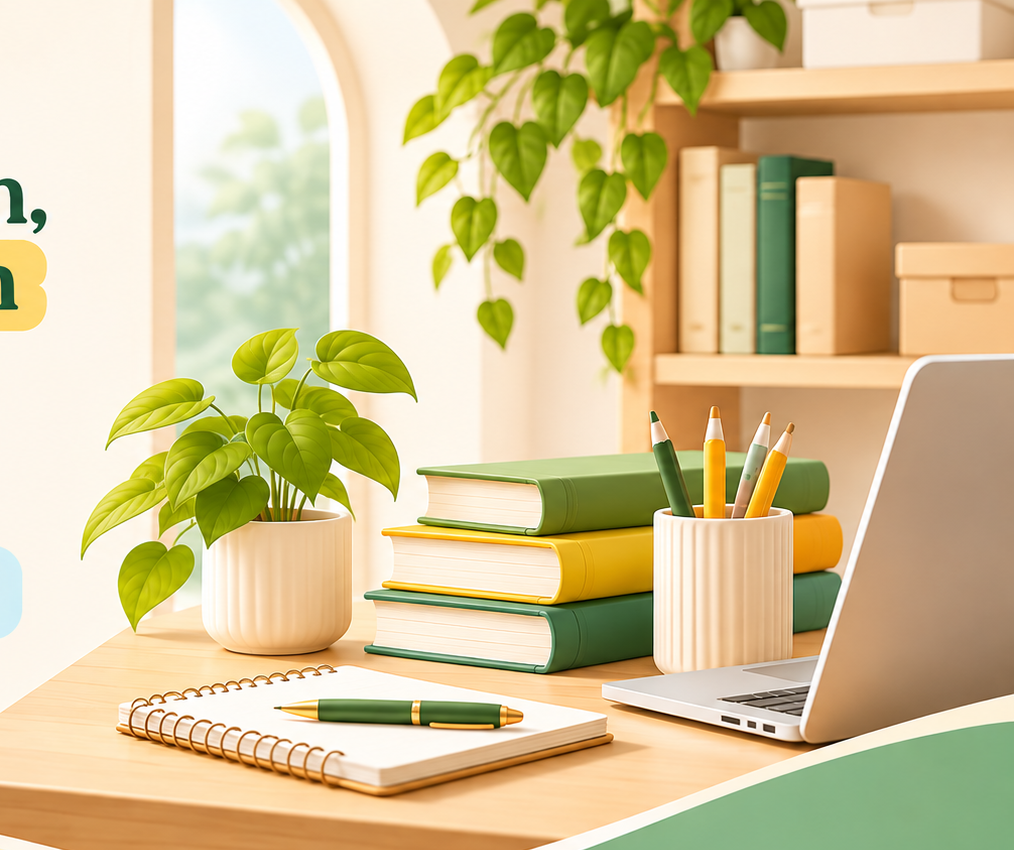
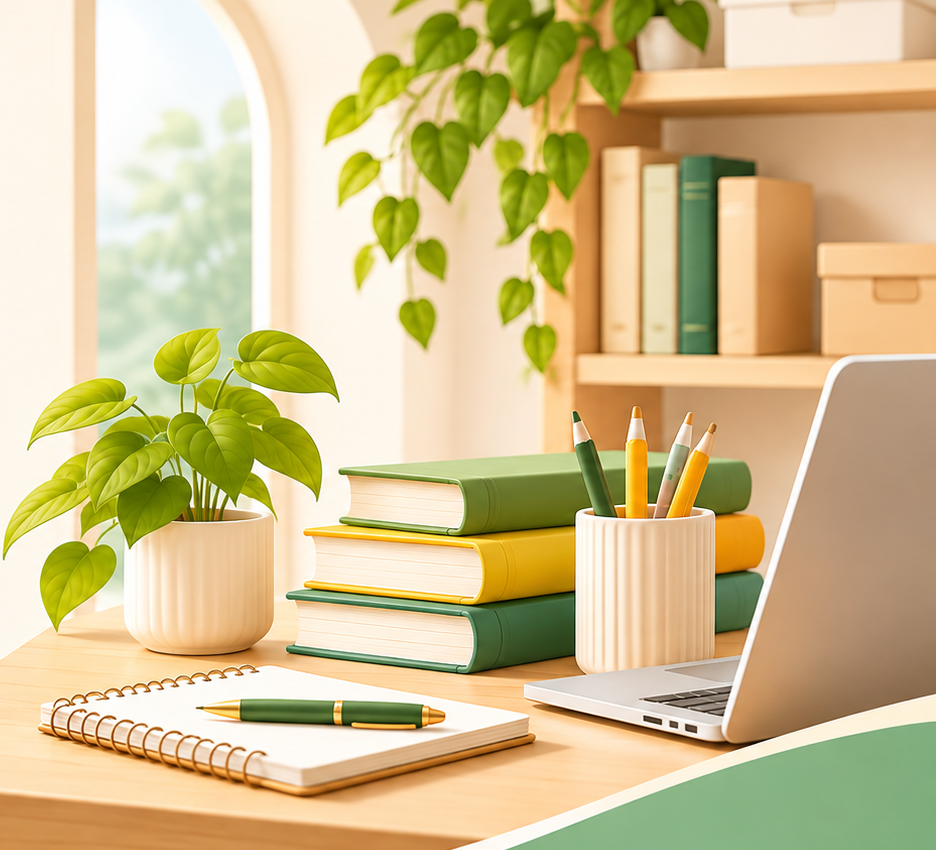
Add files via upload

diff --git a/index.html b/index.html
@@ -1,44 +1,273 @@
 <!doctype html>
 <html lang="id">
 <head>
-<meta charset="utf-8"><meta name="viewport" content="width=device-width,initial-scale=1">
-<meta name="theme-color" content="#f8f6ef"><meta name="description" content="Worksheet, rangkuman materi, aktivitas digital, dan sumber belajar untuk anak, orang tua, dan guru.">
-<title>TemaniBelajar.id — Belajar, Bermain, dan Bertumbuh Bersama</title>
+<meta charset="utf-8">
+<meta name="viewport" content="width=device-width, initial-scale=1">
+<meta name="theme-color" content="#f8f4eb">
+<meta name="description" content="TemaniBelajar.id adalah ruang belajar digital yang menghadirkan sumber belajar, aktivitas, dan inspirasi untuk anak, orang tua, dan guru.">
+<title>TemaniBelajar.id — Belajar dengan Hati, Bertumbuh dengan Ilmu</title>
 <style>
-:root{--forest:#174f40;--green:#287c66;--sage:#dce8dc;--pale:#edf1e8;--cream:#f8f6ef;--paper:#fffefa;--ink:#25352f;--muted:#697970;--orange:#d97942;--yellow:#f2d77a;--line:#e7e5dc;--shadow:0 18px 50px #20392b0d;--serif:Georgia,'Times New Roman',serif;--sans:Inter,ui-sans-serif,system-ui,-apple-system,'Segoe UI',sans-serif}
-*{box-sizing:border-box}html{scroll-behavior:smooth}body{margin:0;background:var(--cream);color:var(--ink);font-family:var(--sans);-webkit-font-smoothing:antialiased}a{color:inherit;text-decoration:none}button,input,select{font:inherit}.container{width:min(1180px,calc(100% - 48px));margin-inline:auto}.topbar{position:sticky;top:0;z-index:20;background:#f8f6efeF;border-bottom:1px solid #e7e5dcaa;backdrop-filter:blur(14px)}.nav{height:78px;display:flex;align-items:center;justify-content:space-between;gap:24px}.brand{display:flex;align-items:center;gap:12px;font-weight:850;letter-spacing:-.04em;color:var(--forest);font-size:20px}.brand img{width:48px;height:48px;object-fit:contain;border-radius:50%}.navlinks{display:flex;gap:34px;color:#42534b;font-size:13px;font-weight:700}.navlinks a:hover,.textlink:hover{color:var(--orange)}.pill{display:inline-flex;align-items:center;justify-content:center;border-radius:99px;padding:13px 20px;background:var(--forest);color:white;font-weight:750;font-size:13px;border:1px solid var(--forest);transition:.2s}.pill:hover{background:var(--green);transform:translateY(-1px)}.pill.secondary{background:transparent;color:var(--forest)}.menu-btn{display:none;border:1px solid var(--line);background:white;border-radius:50%;width:42px;height:42px;font-size:20px;color:var(--forest)}
-.hero{padding:64px 0 76px;display:grid;grid-template-columns:1.02fr .98fr;gap:56px;align-items:center}.eyebrow{font-size:10px;text-transform:uppercase;letter-spacing:.19em;font-weight:850;color:var(--orange)}h1,h2,h3,p{margin-top:0}.hero h1{font-family:var(--serif);font-weight:600;letter-spacing:-.045em;font-size:clamp(46px,5.4vw,72px);line-height:1.02;margin:20px 0 22px;max-width:620px}.hero h1 em{font-style:italic;color:var(--green)}.hero-copy{max-width:520px;font-size:16px;line-height:1.85;color:var(--muted);margin-bottom:26px}.hero-actions{display:flex;gap:12px;flex-wrap:wrap}.hero-note{font-size:11px;color:#87928b;margin-top:22px;letter-spacing:.02em}.hero-visual{position:relative}.hero-visual:before{content:"";position:absolute;inset:8% -5% -5% 8%;border-radius:46% 46% 22px 22px;background:#e7eddf}.hero-visual img{position:relative;display:block;width:100%;aspect-ratio:1.2/1;object-fit:cover;object-position:center;border-radius:34px;box-shadow:var(--shadow)}
-.section{padding:58px 0}.section-head{display:flex;align-items:end;justify-content:space-between;gap:28px;margin-bottom:26px}.section-head h2{font-family:var(--serif);font-weight:600;letter-spacing:-.035em;font-size:clamp(30px,3.5vw,43px);margin:10px 0 8px}.section-head p{max-width:570px;color:var(--muted);line-height:1.75;font-size:14px;margin:0}.textlink{font-size:13px;font-weight:800;color:var(--forest);white-space:nowrap}.category-grid{display:grid;grid-template-columns:repeat(4,1fr);gap:14px}.category-card{background:var(--paper);border:1px solid var(--line);border-radius:18px;padding:22px;min-height:174px;transition:.2s;display:flex;flex-direction:column}.category-card:hover,.aud-card:hover{transform:translateY(-3px);box-shadow:var(--shadow);border-color:#cdd9cd}.cat-symbol{height:44px;width:44px;border-radius:14px;display:grid;place-items:center;font-family:var(--serif);font-size:22px;color:var(--forest);background:var(--pale);margin-bottom:18px}.category-card:nth-child(2) .cat-symbol{background:#f8eadb;color:#a75d32}.category-card:nth-child(3) .cat-symbol{background:#f5efd8;color:#856d2a}.category-card:nth-child(4) .cat-symbol{background:#e7edf0;color:#526d78}.category-card h3{font-size:15px;margin:0 0 7px}.category-card p{font-size:12px;color:var(--muted);line-height:1.6;margin:0}
-.audience-band{background:#eaf0e7;border-block:1px solid #dfe7dc}.audience-grid{display:grid;grid-template-columns:repeat(3,1fr);gap:14px}.aud-card{border:1px solid #dbe4d8;background:#f8f8f1;border-radius:18px;padding:24px;min-height:150px;transition:.2s}.aud-card .number{font-family:var(--serif);font-size:30px;color:#a4b7a2}.aud-card h3{font-family:var(--serif);font-size:22px;margin:10px 0 6px}.aud-card p{font-size:12px;color:var(--muted);margin:0;line-height:1.6}
-.featured-grid{display:grid;grid-template-columns:repeat(4,1fr);gap:16px}.product-card{background:var(--paper);border:1px solid var(--line);border-radius:18px;padding:11px;display:flex;flex-direction:column;min-width:0;transition:.2s}.product-card:hover{transform:translateY(-3px);box-shadow:var(--shadow)}.product-art{height:190px;border-radius:12px;padding:16px;display:flex;flex-direction:column;justify-content:space-between;overflow:hidden;position:relative;background:linear-gradient(145deg,#e7eee3,#cbdccc);color:var(--forest)}.product-art:after{content:"";position:absolute;width:150px;height:150px;border:1px solid currentColor;border-radius:50%;right:-46px;bottom:-62px;opacity:.17;box-shadow:0 0 0 16px #ffffff16,0 0 0 34px #ffffff12}.product-art[data-tone="1"]{background:linear-gradient(145deg,#f8e9d7,#edc9a7);color:#794a2d}.product-art[data-tone="2"]{background:linear-gradient(145deg,#e8edf1,#cbd8dd);color:#365b68}.product-art[data-tone="3"]{background:linear-gradient(145deg,#f4edcf,#e9d98c);color:#766128}.product-art[data-tone="4"]{background:linear-gradient(145deg,#f0e5e6,#dfc7d0);color:#744c5d}.art-kicker{font-size:8px;letter-spacing:.16em;font-weight:900;position:relative;z-index:1}.art-mark{font-family:var(--serif);font-size:54px;line-height:1;align-self:flex-end;position:relative;z-index:1}.art-title{font-family:var(--serif);font-size:19px;line-height:1.08;max-width:90%;position:relative;z-index:1}.product-info{padding:13px 5px 5px;display:flex;flex-direction:column;flex:1}.product-category{font-size:9px;letter-spacing:.12em;text-transform:uppercase;color:var(--orange);font-weight:850;margin-bottom:8px}.product-info h3{font-size:14px;line-height:1.45;margin:0 0 10px;min-height:40px}.price-line{margin-top:auto;display:flex;align-items:baseline;gap:8px;font-weight:850;font-size:14px}.price-line del{font-size:11px;color:#9aa39d;font-weight:500}.product-link{display:flex;justify-content:space-between;border-top:1px solid var(--line);margin-top:13px;padding:12px 5px 2px;font-size:11px;font-weight:850;color:var(--forest)}.all-products{margin-top:25px;text-align:center}.all-products .pill{min-width:190px}
-.shop-tools{display:flex;gap:10px;flex-wrap:wrap;margin:20px 0 22px}.shop-tools input,.shop-tools select{border:1px solid var(--line);background:var(--paper);border-radius:99px;padding:12px 15px;color:var(--ink);font-size:12px}.shop-tools input{min-width:230px;flex:1}.shop-tools select{min-width:160px}.shop-count{align-self:center;margin-left:auto;font-size:11px;color:var(--muted)}.product-grid{display:grid;grid-template-columns:repeat(4,1fr);gap:15px}.product-grid .product-art{height:155px}.why{background:#f0eee4}.why-grid{display:grid;grid-template-columns:1fr 1.4fr;gap:50px;align-items:center}.why h2{font-family:var(--serif);font-size:clamp(32px,4vw,48px);font-weight:600;line-height:1.1;letter-spacing:-.035em;margin:12px 0}.why-intro{color:var(--muted);font-size:14px;line-height:1.8}.benefits{display:grid;grid-template-columns:repeat(2,1fr);gap:12px}.benefit{background:#fbfaf5;border:1px solid #e4e3d9;border-radius:15px;padding:18px}.benefit b{font-family:var(--serif);font-size:17px}.benefit p{font-size:11px;color:var(--muted);line-height:1.6;margin:7px 0 0}.closing{padding:62px 0}.closing-panel{background:var(--forest);color:white;border-radius:24px;padding:42px;display:flex;justify-content:space-between;align-items:center;gap:25px;overflow:hidden;position:relative}.closing-panel:after{content:"";position:absolute;width:300px;height:300px;border:1px solid #ffffff26;border-radius:50%;right:12%;top:-190px;box-shadow:0 0 0 30px #ffffff08,0 0 0 60px #ffffff08}.closing-panel h2{font-family:var(--serif);font-size:clamp(28px,3.6vw,42px);font-weight:500;margin:8px 0}.closing-panel p{font-size:13px;color:#d6e2d9;margin:0;line-height:1.7}.closing-panel .pill{background:#f3d981;color:#274536;border-color:#f3d981;position:relative;z-index:1;white-space:nowrap}footer{border-top:1px solid var(--line);padding:30px 0 38px;color:var(--muted);font-size:11px}.footer-inner{display:flex;justify-content:space-between;gap:20px;align-items:center}.footer-brand{font-weight:850;color:var(--forest);font-size:15px}.footer-links{display:flex;gap:18px;flex-wrap:wrap}
-.hidden{display:none!important}.empty{color:var(--muted);font-size:13px;padding:24px 0}@media(max-width:900px){.hero{gap:30px}.category-grid,.featured-grid,.product-grid{grid-template-columns:repeat(2,1fr)}.why-grid{grid-template-columns:1fr;gap:24px}.product-art{height:175px}}@media(max-width:620px){.container{width:min(100% - 32px,500px)}.nav{height:68px}.brand{font-size:17px}.brand img{width:42px;height:42px}.navlinks,.nav-cta{display:none}.menu-btn{display:block}.hero{grid-template-columns:1fr;padding:30px 0 46px;gap:26px}.hero h1{font-size:48px;margin:14px 0}.hero-copy{font-size:14px}.hero-visual img{aspect-ratio:1.2/1;border-radius:23px}.section{padding:42px 0}.section-head{display:block}.section-head .textlink{display:inline-block;margin-top:15px}.category-grid{gap:9px}.category-card{padding:16px;min-height:160px}.audience-grid{grid-template-columns:1fr}.aud-card{min-height:120px;padding:18px}.featured-grid,.product-grid{gap:9px}.product-card{padding:8px;border-radius:14px}.product-art{height:145px;padding:12px}.art-title{font-size:16px}.art-mark{font-size:42px}.product-info{padding:11px 3px 3px}.product-info h3{font-size:12px;min-height:52px}.price-line{font-size:12px}.product-link{font-size:10px}.shop-tools{display:grid;grid-template-columns:1fr 1fr}.shop-tools input{grid-column:1/-1;min-width:0}.shop-tools select{min-width:0;width:100%}.shop-count{grid-column:1/-1;margin:0}.benefits{gap:8px}.benefit{padding:14px}.closing-panel{padding:28px 22px;display:block}.closing-panel .pill{margin-top:20px}.footer-inner{display:block}.footer-links{margin-top:14px}}
+:root{
+ --forest:#174f40;--green:#287c66;--deep:#173c32;--sage:#e7eee3;--sage2:#d6e3d2;
+ --cream:#faf7f0;--paper:#fffdf8;--peach:#f5e1d0;--butter:#f4e6ad;
+ --ink:#24352f;--muted:#687a70;--line:#e8e1d5;--orange:#d8753d;
+ --serif:Georgia,"Times New Roman",serif;
+ --sans:Inter,ui-sans-serif,system-ui,-apple-system,"Segoe UI",sans-serif;
+ --shadow:0 24px 70px rgba(36,53,47,.10)
+}
+*{box-sizing:border-box}
+html{scroll-behavior:smooth}
+body{margin:0;background:var(--cream);color:var(--ink);font-family:var(--sans);-webkit-font-smoothing:antialiased;overflow-x:clip}
+a{color:inherit;text-decoration:none}
+img{max-width:100%;display:block}
+.container{width:min(1180px,calc(100% - 52px));margin:auto}
+.topbar{position:sticky;top:0;z-index:30;background:rgba(250,247,240,.92);backdrop-filter:blur(16px);border-bottom:1px solid rgba(232,225,213,.8)}
+.nav{height:78px;display:flex;align-items:center;justify-content:space-between;gap:24px}
+.brand{display:flex;align-items:center;gap:12px;color:var(--forest);font-weight:850;font-size:20px;letter-spacing:-.045em}
+.brand img{width:48px;height:48px;object-fit:contain;border-radius:50%}
+.navlinks{display:flex;align-items:center;gap:34px;font-size:13px;font-weight:750;color:#43564d}
+.navlinks a:hover,.footer-links a:hover{color:var(--orange)}
+.nav-cta,.btn{display:inline-flex;align-items:center;justify-content:center;gap:9px;border-radius:99px;padding:14px 21px;background:var(--forest);color:white;font-size:13px;font-weight:800;transition:.2s}
+.nav-cta:hover,.btn:hover{background:var(--green);transform:translateY(-2px)}
+.btn.light{background:var(--paper);color:var(--forest);border:1px solid var(--line)}
+.btn.light:hover{border-color:var(--sage2);background:white}
+.menu-btn{display:none;width:42px;height:42px;border:1px solid var(--line);background:var(--paper);border-radius:50%;color:var(--forest);font-size:20px}
+.mobile-nav{display:none;padding:0 0 18px}
+.mobile-nav a{display:block;padding:12px 4px;border-top:1px solid var(--line);font-size:14px;font-weight:700}
+.eyebrow{font-size:10px;letter-spacing:.22em;text-transform:uppercase;color:var(--orange);font-weight:900}
+h1,h2,h3,p{margin-top:0}
+.hero{padding:74px 0 88px;display:grid;grid-template-columns:minmax(0,1.02fr) minmax(0,.98fr);gap:58px;align-items:center;min-height:610px}.hero-copy,.hero-art{min-width:0}
+.hero-copy{position:relative;z-index:1}
+.hero-kicker{display:inline-flex;align-items:center;gap:10px;color:var(--forest);font-size:11px;font-weight:800;letter-spacing:.12em;text-transform:uppercase}
+.hero-kicker:before{content:"";width:28px;height:1px;background:var(--orange)}
+.hero h1{font:600 clamp(48px,6vw,76px)/.99 var(--serif);letter-spacing:-.052em;max-width:650px;margin:22px 0}
+.hero h1 em{color:var(--green);font-weight:500}
+.hero-desc{max-width:510px;color:var(--muted);font-size:16px;line-height:1.9;margin-bottom:28px}
+.hero-actions{display:flex;flex-wrap:wrap;gap:12px}
+.hero-signature{margin-top:30px;color:#87948b;font:italic 13px var(--serif)}
+.hero-art{position:relative;padding:0 0 24px 22px}
+.hero-art:before{content:"";position:absolute;inset:9% -4% -1% 12%;background:var(--sage);border-radius:48% 48% 30px 30px;transform:rotate(2deg)}
+.hero-art:after{content:"";position:absolute;width:110px;height:110px;border:1px solid #d6a77c;border-radius:50%;right:-22px;top:-28px;opacity:.65}
+.hero-art img{position:relative;z-index:1;display:block;width:100%;max-width:100%;height:440px;object-fit:cover;object-position:center;border-radius:44% 44% 22px 22px;box-shadow:var(--shadow)}
+.hero-caption{position:absolute;z-index:2;bottom:0;left:0;background:var(--paper);border:1px solid var(--line);border-radius:16px;padding:13px 17px;box-shadow:var(--shadow);font:italic 15px var(--serif);color:var(--forest)}
+.hero-caption small{display:block;font:800 9px var(--sans);letter-spacing:.16em;text-transform:uppercase;color:var(--orange);margin-bottom:5px}
+.section{padding:86px 0}
+.section-head{max-width:720px;margin-bottom:38px}
+.section-head h2{font:600 clamp(34px,4.2vw,52px)/1.06 var(--serif);letter-spacing:-.04em;margin:13px 0}
+.section-head p{font-size:15px;line-height:1.85;color:var(--muted);margin:0;max-width:650px}
+.story{background:#f1e9dc;position:relative;overflow:hidden}
+.story:after{content:"";position:absolute;width:440px;height:440px;border:1px solid #d6c7b2;border-radius:50%;right:-180px;top:-190px;box-shadow:0 0 0 28px #ffffff1c,0 0 0 58px #ffffff15}
+.story-grid{display:grid;grid-template-columns:.85fr 1.15fr;gap:75px;align-items:center;position:relative;z-index:1}
+.story-mark{background:var(--sage);border-radius:46% 46% 18px 18px;min-height:360px;display:grid;place-items:center;position:relative;overflow:hidden}
+.story-mark img{width:170px;height:170px;object-fit:contain;filter:drop-shadow(0 12px 18px #173c3218)}
+.story-mark:before,.story-mark:after{content:"";position:absolute;border:1px solid #a9bea8;border-radius:50%;width:280px;height:280px}
+.story-mark:after{width:360px;height:360px}
+.story-copy h2{font:600 clamp(36px,4.2vw,52px)/1.05 var(--serif);letter-spacing:-.04em;margin:14px 0 20px}
+.story-copy p{color:#63746a;font-size:15px;line-height:1.95;margin:0 0 14px}
+.text-link{display:inline-flex;align-items:center;gap:8px;color:var(--forest);font-size:13px;font-weight:850;margin-top:12px}
+.text-link:hover{color:var(--orange)}
+.philosophy{background:var(--paper)}
+.philosophy-grid{display:grid;grid-template-columns:repeat(3,1fr);gap:18px}
+.philo{padding:28px 27px 30px;border:1px solid var(--line);border-radius:20px;background:var(--cream);min-height:218px}
+.philo-num{font:italic 28px var(--serif);color:#9caf98}
+.philo h3{font:600 23px var(--serif);margin:20px 0 10px}
+.philo p{font-size:13px;line-height:1.8;color:var(--muted);margin:0}
+.ecosystem{background:var(--sage);border-block:1px solid #dbe5d7}
+.ecosystem-grid{display:grid;grid-template-columns:repeat(4,1fr);gap:14px}
+.eco{background:rgba(255,253,248,.76);border:1px solid #d8e2d5;border-radius:18px;padding:23px;min-height:195px;transition:.2s}
+.eco:hover{transform:translateY(-4px);box-shadow:var(--shadow)}
+.eco-symbol{width:48px;height:48px;display:grid;place-items:center;border-radius:50%;background:var(--peach);color:var(--forest);font:24px var(--serif);margin-bottom:22px}
+.eco:nth-child(2) .eco-symbol{background:#f4e8b8}
+.eco:nth-child(3) .eco-symbol{background:#dce8df}
+.eco:nth-child(4) .eco-symbol{background:#eadde2}
+.eco h3{font:600 20px var(--serif);margin:0 0 8px}
+.eco p{font-size:12px;line-height:1.75;color:var(--muted);margin:0}
+.partners{background:var(--cream)}
+.partner-grid{display:grid;grid-template-columns:repeat(3,1fr);gap:16px}
+.partner{padding:27px;border:1px solid var(--line);border-radius:20px;background:var(--paper);min-height:220px;position:relative;overflow:hidden}
+.partner:after{content:"";position:absolute;width:150px;height:150px;border:1px solid #d9e3d6;border-radius:50%;right:-60px;bottom:-75px;box-shadow:0 0 0 16px #e9efe522,0 0 0 34px #e9efe522}
+.partner .num{font:italic 30px var(--serif);color:#a5b7a0}
+.partner h3{font:600 25px var(--serif);margin:17px 0 9px}
+.partner p{font-size:13px;line-height:1.8;color:var(--muted);max-width:270px;margin:0}
+.work{background:#f2eadd}
+.work-layout{display:grid;grid-template-columns:.8fr 1.2fr;gap:50px;align-items:center}
+.work-intro h2{font:600 clamp(36px,4vw,50px)/1.05 var(--serif);letter-spacing:-.04em;margin:13px 0}
+.work-intro p{font-size:14px;line-height:1.9;color:var(--muted)}
+.work-cards{display:grid;grid-template-columns:repeat(2,1fr);gap:14px}
+.work-card{background:var(--paper);border:1px solid #e7ddcf;border-radius:18px;padding:12px;min-width:0}
+.work-cover{min-height:205px;border-radius:12px;padding:20px;display:flex;flex-direction:column;justify-content:space-between;background:linear-gradient(145deg,#e5eee2,#cbdccc);color:#174f40}
+.work-card:nth-child(2) .work-cover{background:linear-gradient(145deg,#f7e6d5,#e9c7a8);color:#754a30}
+.cover-top{font-size:8px;letter-spacing:.17em;font-weight:900}
+.cover-mark{align-self:flex-end;font:58px/1 var(--serif)}
+.cover-title{font:22px/1.08 var(--serif);max-width:90%}
+.work-meta{padding:14px 5px 5px}
+.work-meta small{font-size:9px;letter-spacing:.15em;text-transform:uppercase;color:var(--orange);font-weight:900}
+.work-meta h3{font:600 17px/1.35 var(--serif);margin:7px 0}
+.work-meta p{font-size:11px;color:var(--muted);line-height:1.6;margin:0}
+.work-note{grid-column:1/-1;font-size:11px;color:#7c887f;margin-top:4px}
+.cta{padding:76px 0}
+.cta-panel{background:var(--forest);border-radius:26px;padding:52px;display:flex;align-items:center;justify-content:space-between;gap:30px;color:white;position:relative;overflow:hidden}
+.cta-panel:after{content:"";position:absolute;width:380px;height:380px;border:1px solid #ffffff24;border-radius:50%;right:15%;top:-245px;box-shadow:0 0 0 35px #ffffff08,0 0 0 70px #ffffff08}
+.cta-panel h2{font:600 clamp(32px,4vw,48px)/1.05 var(--serif);letter-spacing:-.035em;margin:12px 0}
+.cta-panel p{font-size:14px;color:#d9e5dd;line-height:1.8;margin:0;max-width:570px}
+.cta-panel .btn{background:var(--butter);color:var(--deep);position:relative;z-index:1;white-space:nowrap}
+footer{border-top:1px solid var(--line);padding:34px 0 40px;background:var(--cream)}
+.footer-main{display:flex;align-items:flex-start;justify-content:space-between;gap:35px}
+.footer-brand{display:flex;align-items:center;gap:12px;color:var(--forest);font-weight:850;font-size:18px}
+.footer-brand img{width:46px;height:46px;object-fit:contain;border-radius:50%}
+.footer-note{font:italic 14px var(--serif);color:var(--muted);margin:12px 0 0}
+.footer-links{display:flex;gap:22px;flex-wrap:wrap;font-size:12px;font-weight:750;color:#52635a}
+.copyright{border-top:1px solid var(--line);margin-top:28px;padding-top:18px;color:#89948c;font-size:10px;display:flex;justify-content:space-between;gap:16px}
+@media(max-width:900px){
+ .hero{gap:34px}.hero-art img{height:380px}.ecosystem-grid{grid-template-columns:repeat(2,1fr)}
+ .story-grid,.work-layout{grid-template-columns:1fr;gap:35px}.story-mark{min-height:280px}
+}
+@media(max-width:620px){
+ .container{width:calc(100% - 34px)}.nav{height:68px}.brand{font-size:17px}.brand img{width:42px;height:42px}
+ .navlinks,.nav-cta{display:none}.menu-btn{display:block}.mobile-nav[hidden]{display:none}.mobile-nav:not([hidden]){display:block}
+ .hero{grid-template-columns:minmax(0,1fr);padding:48px 0 60px;gap:32px;min-height:0;overflow:visible}.hero-copy,.hero-art{width:100%;min-width:0}.hero h1{font-size:clamp(42px,11vw,52px);max-width:12ch}.hero-desc{font-size:14px;max-width:100%}
+ .hero-art{padding:0 0 18px 8px;margin:0;max-width:100%;overflow:hidden}.hero-art:before{inset:8% -3% 0 10%}.hero-art:after{right:-10px;top:-14px;width:76px;height:76px}.hero-art img{width:100%;height:auto;aspect-ratio:1.18 / 1;max-height:340px;object-fit:cover;object-position:center;border-radius:38% 38% 18px 18px}.hero-caption{left:0;bottom:0;font-size:12px;max-width:88%}
+ .section{padding:62px 0}.section-head{margin-bottom:27px}.section-head h2{font-size:38px}
+ .philosophy-grid,.partner-grid{grid-template-columns:1fr}.philo,.partner{min-height:0}
+ .ecosystem-grid{grid-template-columns:1fr 1fr;gap:9px}.eco{padding:17px;min-height:180px}.eco h3{font-size:17px}
+ .work-cards{gap:9px}.work-cover{min-height:165px;padding:14px}.cover-title{font-size:18px}.cover-mark{font-size:45px}
+ .cta{padding:55px 0}.cta-panel{padding:30px 24px;display:block}.cta-panel .btn{margin-top:22px}
+ .footer-main{display:block}.footer-links{margin-top:24px;gap:14px}.copyright{display:block;line-height:1.8}
+}
+@media(max-width:380px){.hero h1{font-size:42px}.hero-art img{aspect-ratio:1.08 / 1;object-position:center}.ecosystem-grid{grid-template-columns:1fr}.work-cards{grid-template-columns:1fr}}
 </style>
 </head>
 <body>
-<header class="topbar"><div class="container nav"><a class="brand" href="#top"><img src="/logo.png" alt="Logo TemaniBelajar"><span>TemaniBelajar.id</span></a><nav class="navlinks" aria-label="Navigasi utama"><a href="#explore">Explore</a><a href="#featured">Learning Shop</a><a href="#about">About</a></nav><a class="pill nav-cta" href="#all-products">Lihat Produk</a><button class="menu-btn" id="menuBtn" aria-label="Buka navigasi">☰</button></div><div class="container" id="mobileNav" hidden style="padding:0 0 16px;gap:18px"><a href="#explore">Explore</a><a href="#featured">Learning Shop</a><a href="#about">About</a></div></header>
-<main id="top">
-<section class="container hero"><div><div class="eyebrow">A little space for curious minds</div><h1>Belajar, bermain, dan <em>bertumbuh bersama.</em></h1><p class="hero-copy">Worksheet, rangkuman materi, aktivitas digital, dan sumber belajar untuk menemani anak, orang tua, dan guru dalam satu ruang.</p><div class="hero-actions"><a class="pill" href="#featured">Jelajahi Koleksi <span aria-hidden="true">&nbsp;↗</span></a><a class="pill secondary" href="https://lynk.id/temanibelajarid" target="_blank" rel="noopener">Kunjungi Shop</a></div><div class="hero-note">Untuk proses belajar di rumah maupun di kelas.</div></div><div class="hero-visual"><img src="/hero.png" alt="Meja belajar dengan buku, alat tulis, tanaman, dan laptop"></div></section>
-<section class="container section" id="explore"><div class="section-head"><div><div class="eyebrow">Explore & discover</div><h2>Temukan cara belajar yang tepat.</h2><p>Satu ruang untuk berbagai kebutuhan belajar. Pilih jenis sumber belajar yang sedang kamu cari.</p></div><a class="textlink" href="#all-products">Jelajahi semua produk ↗</a></div><div class="category-grid"><a class="category-card" href="#all-products" data-filter-cat="Worksheet"><div class="cat-symbol">W</div><h3>Worksheets</h3><p>Lembar aktivitas, latihan, dan penguatan materi.</p></a><a class="category-card" href="#all-products" data-filter-cat="Digital Tools"><div class="cat-symbol">↗</div><h3>Interactive & Digital Tools</h3><p>Alat bantu digital untuk pengalaman belajar yang aktif.</p></a><a class="category-card" href="#all-products" data-filter-cat="Games"><div class="cat-symbol">G</div><h3>Games & Activities</h3><p>Aktivitas edukatif untuk belajar sambil mencoba.</p></a><a class="category-card" href="#all-products" data-filter-cat="Rangkuman"><div class="cat-symbol">N</div><h3>Study Notes & Resources</h3><p>Rangkuman, bahan ajar, dan panduan belajar.</p></a></div></section>
-<div class="audience-band"><section class="container section"><div class="section-head"><div><div class="eyebrow">Made for every learning partner</div><h2>Satu ruang, tiga kebutuhan.</h2><p>TemaniBelajar hadir untuk mendukung proses belajar anak, orang tua, dan guru.</p></div></div><div class="audience-grid"><a class="aud-card" href="#all-products"><div class="number">01</div><h3>Untuk Anak</h3><p>Materi dan aktivitas untuk berlatih, memahami, dan berkembang.</p></a><a class="aud-card" href="#all-products"><div class="number">02</div><h3>Untuk Orang Tua</h3><p>Sumber belajar praktis untuk menemani proses belajar di rumah.</p></a><a class="aud-card" href="#all-products"><div class="number">03</div><h3>Untuk Guru</h3><p>Bahan ajar dan ide aktivitas untuk mendukung pembelajaran di kelas.</p></a></div></section></div>
-<section class="container section" id="featured"><div class="section-head"><div><div class="eyebrow">Curated for your learning journey</div><h2>Pilihan TemaniBelajar</h2><p>Mulai dari produk pilihan, lalu temukan koleksi lain sesuai kebutuhan belajar.</p></div><a class="textlink" href="#all-products">Lihat seluruh katalog ↗</a></div><div class="featured-grid" id="featuredGrid"><p class="empty">Memuat produk pilihan…</p></div><div class="all-products"><a class="pill secondary" href="#all-products">Lihat Semua Produk</a></div></section>
-<section class="container section" id="all-products"><div class="section-head"><div><div class="eyebrow">The learning shop</div><h2>Jelajahi seluruh koleksi</h2><p>Cari berdasarkan nama produk, kategori, atau jenjang belajar.</p></div><a class="textlink" href="https://lynk.id/temanibelajarid" target="_blank" rel="noopener">Toko resmi Lynk ↗</a></div><div class="shop-tools"><input id="searchInput" type="search" placeholder="Cari produk…" aria-label="Cari produk"><select id="categoryFilter" aria-label="Filter kategori"><option value="">Semua kategori</option></select><select id="gradeFilter" aria-label="Filter kelas"><option value="">Semua kelas/tema</option></select><span class="shop-count" id="productCount">Memuat katalog…</span></div><div class="product-grid" id="productGrid"></div><p class="empty hidden" id="emptyState">Produk tidak ditemukan. Coba kata kunci atau kategori lain.</p><p class="hero-note">Harga dan ketersediaan mengikuti informasi terbaru di toko resmi Lynk.id.</p></section>
-<section class="why section" id="about"><div class="container why-grid"><div><div class="eyebrow">The TemaniBelajar approach</div><h2>Belajar lebih terarah, tumbuh dengan percaya diri.</h2><p class="why-intro">Kami percaya proses belajar yang baik dimulai dari sumber yang tepat, penyajian yang jelas, dan pendampingan yang hangat.</p></div><div class="benefits"><div class="benefit"><b>Materi terstruktur</b><p>Sumber belajar disusun agar lebih mudah digunakan sesuai kebutuhan.</p></div><div class="benefit"><b>Visual yang nyaman</b><p>Tampilan dirancang rapi agar informasi mudah dibaca dan dipahami.</p></div><div class="benefit"><b>Praktis dan digital</b><p>Temukan produk belajar dalam satu katalog yang mudah dijelajahi.</p></div><div class="benefit"><b>Dibuat dengan hati</b><p>Menemani anak, orang tua, dan guru dalam perjalanan belajar.</p></div></div></div></section>
-<section class="container closing"><div class="closing-panel"><div><div class="eyebrow" style="color:#f3d981">Grow together</div><h2>Temani setiap langkah belajar.</h2><p>Temukan worksheet, rangkuman, dan aktivitas yang sesuai dengan kebutuhanmu.</p></div><a class="pill" href="https://lynk.id/temanibelajarid" target="_blank" rel="noopener">Kunjungi Toko ↗</a></div></section>
+<header class="topbar">
+ <div class="container nav">
+  <a class="brand" href="#home" aria-label="TemaniBelajar beranda"><img src="/logo.png" alt="Logo TemaniBelajar"><span>TemaniBelajar.id</span></a>
+  <nav class="navlinks" aria-label="Navigasi utama">
+   <a href="#tentang">Tentang Kami</a><a href="#pendekatan">Pendekatan</a><a href="#ekosistem">Ruang Belajar</a><a href="#karya">Karya Kami</a>
+  </nav>
+  <a class="nav-cta" href="https://lynk.id/temanibelajarid" target="_blank" rel="noopener">Kunjungi Lynk <span aria-hidden="true">↗</span></a>
+  <button class="menu-btn" id="menuBtn" aria-label="Buka menu" aria-expanded="false">☰</button>
+ </div>
+ <nav class="container mobile-nav" id="mobileNav" hidden>
+  <a href="#tentang">Tentang Kami</a><a href="#pendekatan">Pendekatan</a><a href="#ekosistem">Ruang Belajar</a><a href="#karya">Karya Kami</a><a href="https://lynk.id/temanibelajarid" target="_blank" rel="noopener">Kunjungi Lynk ↗</a>
+ </nav>
+</header>
+
+<main id="home">
+<section class="container hero">
+ <div class="hero-copy">
+  <div class="hero-kicker">A little space for curious minds</div>
+  <h1>Belajar dengan hati, <em>bertumbuh</em> dengan ilmu.</h1>
+  <p class="hero-desc">TemaniBelajar adalah ruang belajar digital yang tumbuh dari kepedulian pada proses belajar anak. Kami menghadirkan sumber belajar dan pengalaman edukatif untuk mendukung anak, orang tua, dan guru.</p>
+  <div class="hero-actions">
+   <a class="btn" href="#tentang">Kenali TemaniBelajar <span aria-hidden="true">→</span></a>
+   <a class="btn light" href="#ekosistem">Jelajahi ruang belajar</a>
+  </div>
+  <div class="hero-signature">Menemani belajar anak dengan hati.</div>
+ </div>
+ <div class="hero-art">
+  <img src="/hero.png" alt="Suasana meja belajar hangat dengan buku, tanaman, pensil, dan laptop">
+  <div class="hero-caption"><small>Our little promise</small>Setiap anak punya perjalanan belajar yang berharga.</div>
+ </div>
+</section>
+
+<section class="story section" id="tentang">
+ <div class="container story-grid">
+  <div class="story-mark"><img src="/logo.png" alt="Identitas TemaniBelajar"></div>
+  <div class="story-copy">
+   <div class="eyebrow">The heart behind the learning</div>
+   <h2>Satu ruang, untuk menemani banyak perjalanan.</h2>
+   <p>TemaniBelajar.id hadir sebagai teman dalam proses belajar—menghadirkan materi, aktivitas, dan alat bantu yang dirancang agar kegiatan belajar terasa lebih terarah, dekat, dan bermakna.</p>
+   <p>Kami percaya bahwa belajar bukan hanya tentang menyelesaikan tugas. Ada rasa ingin tahu yang perlu dirawat, keberanian mencoba yang perlu didukung, dan proses kecil yang layak dirayakan.</p>
+   <a class="text-link" href="#pendekatan">Kenali pendekatan kami <span>→</span></a>
+  </div>
+ </div>
+</section>
+
+<section class="philosophy section" id="pendekatan">
+ <div class="container">
+  <div class="section-head">
+   <div class="eyebrow">Our learning philosophy</div>
+   <h2>Belajar bukan perlombaan. Ini sebuah perjalanan.</h2>
+   <p>Kami ingin setiap pengalaman belajar terasa lebih dekat dengan kebutuhan, tahap, dan rasa ingin tahu anak.</p>
+  </div>
+  <div class="philosophy-grid">
+   <article class="philo"><div class="philo-num">01</div><h3>Bertahap dan terarah</h3><p>Materi dan aktivitas disusun untuk membantu proses belajar berlangsung selangkah demi selangkah.</p></article>
+   <article class="philo"><div class="philo-num">02</div><h3>Aktif dan bermakna</h3><p>Belajar dapat hadir melalui membaca, mencoba, berlatih, bermain, dan menemukan hal baru.</p></article>
+   <article class="philo"><div class="philo-num">03</div><h3>Tumbuh bersama</h3><p>Anak, orang tua, dan guru punya peran penting dalam menciptakan pengalaman belajar yang positif.</p></article>
+  </div>
+ </div>
+</section>
+
+<section class="ecosystem section" id="ekosistem">
+ <div class="container">
+  <div class="section-head">
+   <div class="eyebrow">A thoughtful learning ecosystem</div>
+   <h2>Ruang untuk berbagai cara belajar.</h2>
+   <p>TemaniBelajar mengembangkan beragam sumber dan pengalaman edukatif. Bukan satu cara untuk semua, melainkan pilihan yang bisa mendukung perjalanan belajar.</p>
+  </div>
+  <div class="ecosystem-grid">
+   <article class="eco"><div class="eco-symbol">✎</div><h3>Worksheets</h3><p>Lembar aktivitas dan latihan untuk membantu anak memahami materi melalui praktik.</p></article>
+   <article class="eco"><div class="eco-symbol">▤</div><h3>Learning Resources</h3><p>Rangkuman dan bahan belajar yang membantu menyusun pemahaman secara bertahap.</p></article>
+   <article class="eco"><div class="eco-symbol">✧</div><h3>Interactive Tools</h3><p>Alat bantu digital untuk menghadirkan pengalaman belajar yang lebih aktif.</p></article>
+   <article class="eco"><div class="eco-symbol">◇</div><h3>Games & Activities</h3><p>Aktivitas edukatif yang mengajak anak belajar sambil bereksplorasi.</p></article>
+  </div>
+ </div>
+</section>
+
+<section class="partners section">
+ <div class="container">
+  <div class="section-head">
+   <div class="eyebrow">Made for every learning partner</div>
+   <h2>Satu ruang, tiga kebutuhan.</h2>
+   <p>Setiap orang punya peran dalam perjalanan belajar. TemaniBelajar ingin hadir sebagai teman bagi semuanya.</p>
+  </div>
+  <div class="partner-grid">
+   <article class="partner"><div class="num">01</div><h3>Untuk Anak</h3><p>Ruang untuk mencoba, berlatih, bertanya, dan menemukan kesenangan dalam belajar.</p></article>
+   <article class="partner"><div class="num">02</div><h3>Untuk Orang Tua</h3><p>Sumber pendamping yang praktis untuk menemani proses belajar anak di rumah.</p></article>
+   <article class="partner"><div class="num">03</div><h3>Untuk Guru</h3><p>Inspirasi dan sumber belajar untuk mendukung kegiatan pembelajaran di kelas.</p></article>
+  </div>
+ </div>
+</section>
+
+<section class="work section" id="karya">
+ <div class="container work-layout">
+  <div class="work-intro">
+   <div class="eyebrow">A glimpse of what we create</div>
+   <h2>Karya kecil untuk perjalanan belajar yang besar.</h2>
+   <p>Mulai dari lembar aktivitas hingga rangkuman dan perangkat digital, setiap karya dibuat untuk mendukung proses belajar dengan cara yang lebih terarah.</p>
+   <a class="text-link" href="https://lynk.id/temanibelajarid" target="_blank" rel="noopener">Lihat koleksi di toko resmi <span>↗</span></a>
+  </div>
+  <div class="work-cards">
+   <article class="work-card"><div class="work-cover"><span class="cover-top">TEMANIBELAJAR · LEARNING NOTES</span><span class="cover-mark">✎</span><span class="cover-title">Rangkuman Matematika Materi Dasar SD</span></div><div class="work-meta"><small>Learning resources</small><h3>Belajar konsep, selangkah demi selangkah.</h3><p>Contoh karya rangkuman untuk mendukung pemahaman dasar.</p></div></article>
+   <article class="work-card"><div class="work-cover"><span class="cover-top">TEMANIBELAJAR · LANGUAGE</span><span class="cover-mark">ع</span><span class="cover-title">Bahasa Arab SD/MI Kelas 1</span></div><div class="work-meta"><small>Learning materials</small><h3>Mengenal bahasa melalui materi sederhana.</h3><p>Contoh karya bahan belajar untuk tahap awal.</p></div></article>
+   <p class="work-note">Pratinjau karya. Katalog dan transaksi produk tersedia melalui toko resmi TemaniBelajar di Lynk.id.</p>
+  </div>
+ </div>
+</section>
+
+<section class="container cta">
+ <div class="cta-panel">
+  <div><div class="eyebrow" style="color:#f3d981">Continue the learning journey</div><h2>Mari tumbuh bersama.</h2><p>Temukan lebih banyak sumber belajar dan karya TemaniBelajar melalui toko resmi kami.</p></div>
+  <a class="btn" href="https://lynk.id/temanibelajarid" target="_blank" rel="noopener">Kunjungi Lynk.id <span>↗</span></a>
+ </div>
+</section>
 </main>
-<footer><div class="container footer-inner"><div><div class="footer-brand">TemaniBelajar.id</div><div style="margin-top:6px">Menemani belajar anak dengan hati.</div><div style="margin-top:8px">© 2026 TemaniBelajar.id</div></div><div class="footer-links"><a href="#top">Kembali ke atas</a><a href="#about">Tentang Kami</a><a href="https://lynk.id/temanibelajarid" target="_blank" rel="noopener">Toko Resmi</a></div></div></footer>
+
+<footer>
+ <div class="container">
+  <div class="footer-main">
+   <div><a class="footer-brand" href="#home"><img src="/logo.png" alt="">TemaniBelajar.id</a><p class="footer-note">Belajar dengan Hati, Bertumbuh dengan Ilmu.</p></div>
+   <nav class="footer-links" aria-label="Navigasi footer"><a href="#tentang">Tentang Kami</a><a href="#pendekatan">Pendekatan</a><a href="#ekosistem">Ruang Belajar</a><a href="#karya">Karya Kami</a><a href="https://lynk.id/temanibelajarid" target="_blank" rel="noopener">Toko Resmi ↗</a></nav>
+  </div>
+  <div class="copyright"><span>© <span id="year"></span> TemaniBelajar.id</span><span>Menemani belajar anak dengan hati.</span></div>
+ </div>
+</footer>
 <script>
-const productsUrl='/products.json';let products=[];
-const esc=s=>String(s??'').replace(/[&<>"']/g,c=>({'&':'&amp;','<':'&lt;','>':'&gt;','"':'&quot;',"'":'&#39;'}[c]));
-const rupiah=v=>{const n=Number(String(v??'0').replace(/\D/g,''));return 'Rp'+n.toLocaleString('id-ID')};
-const toneFor=p=>{const c=(p.category||'').toLowerCase();if(c.includes('bahasa arab'))return 1;if(c.includes('bahasa inggris'))return 2;if(c.includes('matematika'))return 3;if(c.includes('bundle'))return 4;if(c.includes('digital'))return 2;return 0};
-const markFor=p=>{const c=(p.category||'').toLowerCase();if(c.includes('arab'))return 'ع';if(c.includes('inggris'))return 'A–Z';if(c.includes('matematika'))return '1+1';if(c.includes('bundle'))return 'TB';if(c.includes('digital'))return '↗';if(c.includes('worksheet'))return '✳';return '✎'};
-function productCard(p,i,featured=false){const tone=toneFor(p),title=esc(p.title),url=esc(p.url||'https://lynk.id/temanibelajarid');return `<article class="product-card"><a class="product-art" data-tone="${tone}" href="${url}" target="_blank" rel="noopener" aria-label="Lihat ${title}"><span class="art-kicker">${esc(p.eyebrow||'TEMANIBELAJAR')}</span><span class="art-mark">${esc(markFor(p))}</span><span class="art-title">${title}</span></a><div class="product-info"><div class="product-category">${esc(p.category||'Koleksi')}</div><h3>${title}</h3><div class="price-line">${rupiah(p.price)} ${p.old_price?`<del>${rupiah(p.old_price)}</del>`:''}</div><a class="product-link" href="${url}" target="_blank" rel="noopener"><span>Lihat detail & beli</span><span>↗</span></a></div></article>`}
-function populateFilters(){const cats=[...new Set(products.map(p=>p.category).filter(Boolean))].sort();const grades=[...new Set(products.map(p=>p.grade).filter(Boolean))].sort((a,b)=>a.localeCompare(b,'id'));document.querySelector('#categoryFilter').innerHTML='<option value="">Semua kategori</option>'+cats.map(x=>`<option value="${esc(x)}">${esc(x)}</option>`).join('');document.querySelector('#gradeFilter').innerHTML='<option value="">Semua kelas/tema</option>'+grades.map(x=>`<option value="${esc(x)}">${esc(x)}</option>`).join('')}
-function renderAll(){const q=document.querySelector('#searchInput').value.trim().toLowerCase(),cat=document.querySelector('#categoryFilter').value,grade=document.querySelector('#gradeFilter').value;const filtered=products.filter(p=>(!q||`${p.title} ${p.category} ${p.grade} ${p.description||''}`.toLowerCase().includes(q))&&(!cat||p.category===cat)&&(!grade||p.grade===grade));document.querySelector('#productGrid').innerHTML=filtered.map((p,i)=>productCard(p,i)).join('');document.querySelector('#productCount').textContent=`${filtered.length} dari ${products.length} produk`;document.querySelector('#emptyState').classList.toggle('hidden',filtered.length>0)}
-(async()=>{try{const r=await fetch(productsUrl,{cache:'no-store'});if(!r.ok)throw Error('products.json tidak ditemukan');products=await r.json();if(!Array.isArray(products))throw Error('Format katalog tidak valid');const featuredIndexes=[2,7,10,11];const selected=featuredIndexes.map(i=>products[i]).filter(Boolean);document.querySelector('#featuredGrid').innerHTML=selected.map((p,i)=>productCard(p,i,true)).join('');populateFilters();renderAll();}catch(e){document.querySelector('#featuredGrid').innerHTML='<p class="empty">Katalog belum dapat dimuat. Silakan kunjungi toko resmi Lynk.id.</p>';document.querySelector('#productCount').textContent='Katalog belum tersedia';console.error(e)}})();
-['searchInput','categoryFilter','gradeFilter'].forEach(id=>document.getElementById(id).addEventListener(id==='searchInput'?'input':'change',renderAll));
-document.querySelectorAll('[data-filter-cat]').forEach(a=>a.addEventListener('click',()=>{const cat=a.dataset.filterCat;setTimeout(()=>{const sel=document.querySelector('#categoryFilter');sel.value=[...sel.options].some(o=>o.value===cat)?cat:'';renderAll()},0)}));
-const menu=document.querySelector('#mobileNav');document.querySelector('#menuBtn').addEventListener('click',()=>{menu.hidden=!menu.hidden});menu.querySelectorAll('a').forEach(a=>a.addEventListener('click',()=>menu.hidden=true));
+const menuBtn=document.getElementById('menuBtn');
+const mobileNav=document.getElementById('mobileNav');
+menuBtn.addEventListener('click',()=>{const open=mobileNav.hidden;mobileNav.hidden=!open;menuBtn.setAttribute('aria-expanded',String(open));menuBtn.textContent=open?'×':'☰'});
+mobileNav.querySelectorAll('a').forEach(a=>a.addEventListener('click',()=>{mobileNav.hidden=true;menuBtn.setAttribute('aria-expanded','false');menuBtn.textContent='☰'}));
+document.getElementById('year').textContent=new Date().getFullYear();
 </script>
-</body></html>
+</body>
+</html>
